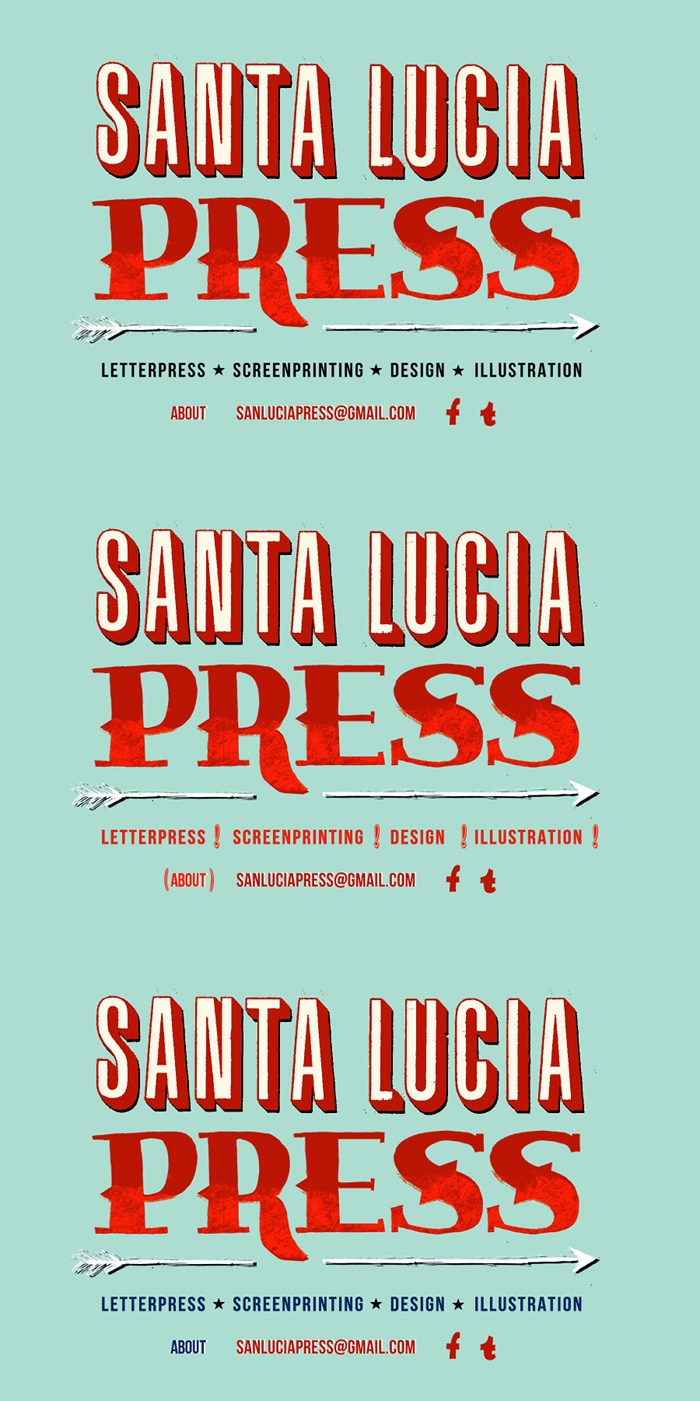
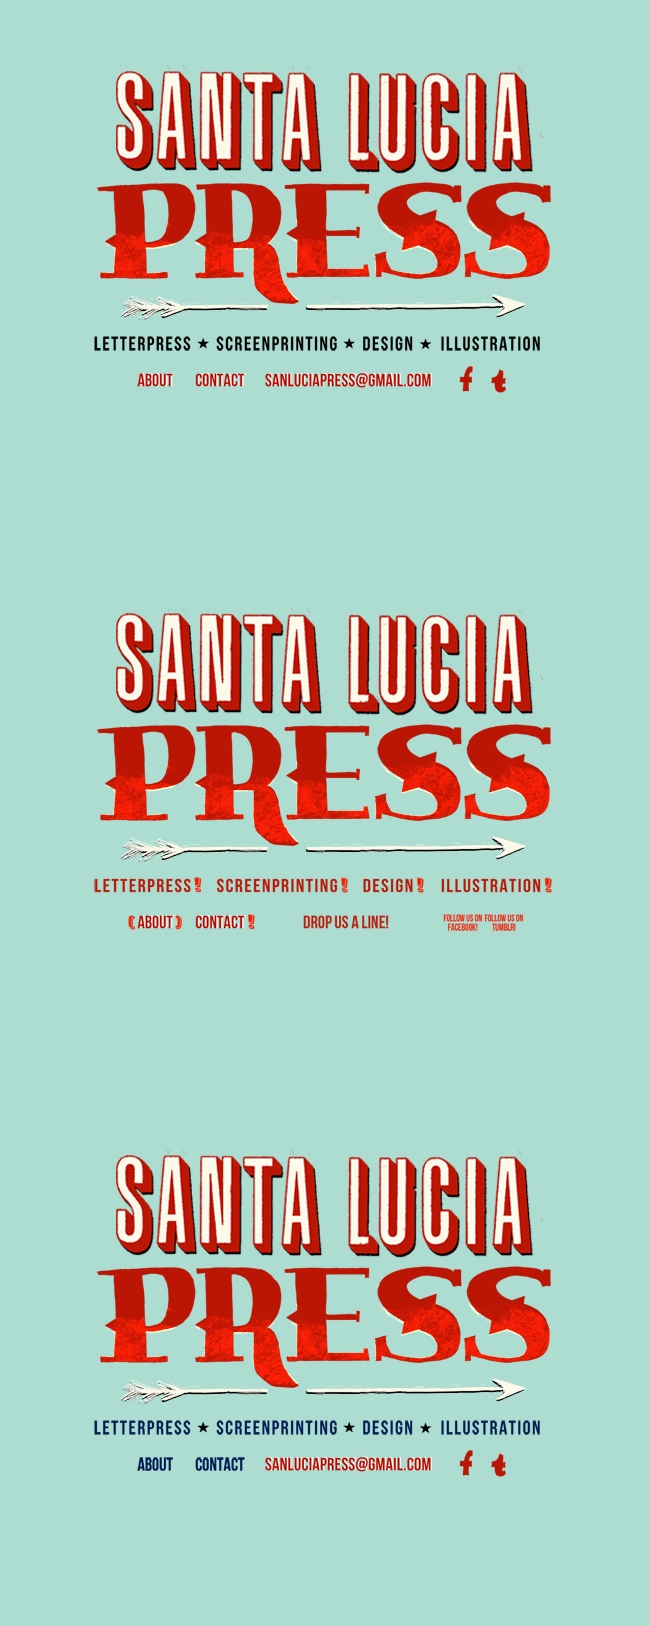
add in new images from Karen

diff --git a/css/main.css b/css/main.css
@@ -55,8 +55,8 @@ a {
  */
 
 ul#main-pages {
-    width   : 700px;
-    height  : 467px;
+    width   : 650px;
+    height  : 410px;
     list-style: none;
     background: url(../images/mainpagemain_all.jpg) no-repeat 0 0;
     position: relative;
@@ -85,66 +85,73 @@ ul#main-pages li a span {
 
 
 li#site-id {
-    left   : 60px;
-    top    : 39px;
-    width  : 540px;
-    height : 318px;
+    left   : 82px;
+    top    : 57px;
+    width  : 491px;
+    height : 273px;
 }
 
 li#letterpress {
-    left   : 94px;
-    top    : 358px;
-    width  : 135px;
-    height : 25px;    
+    left   : 89px;
+    top    : 332px;
+    width  : 124px;
+    height : 22px;    
 }
 
 li#screenprinting {
-    left   : 231px;
-    top    : 353px;
-    width  : 153px;
-    height : 30px;
+    left   : 214px;
+    top    : 333px;
+    width  : 150px;
+    height : 24px;
 }
 
 li#design {
-    left   : 387px;
-    top    : 355px;
-    width  : 80px;
-    height : 30px;
-}
-
-li#illustration {
-    left   : 469px;
-    top    : 355px;
-    width  : 137px;
-    height : 29px;
-}
-
-li#about {
-    left   : 147px;
-    top    : 399px;
+    left   : 358px;
+    top    : 329px;
     width  : 81px;
     height : 28px;
 }
 
+li#illustration {
+    left   : 431px;
+    top    : 324px;
+    width  : 138px;
+    height : 32px;
+}
+
+li#about {
+    left   : 122px;
+    top    : 368px;
+    width  : 68px;
+    height : 24px;
+}
+
+li#contact {
+    left   : 192px;
+    top    : 370px;
+    width  : 72px;
+    height : 23px;
+}
+
 li#email-address {
-    left   : 230px;
-    top    : 400px;
-    width  : 192px;
-    height : 25px;
+    left   : 256px;
+    top    : 371px;
+    width  : 185px;
+    height : 22px;
 }
 
 li#facebook {
-    left   : 428px;
-    top    : 387px;
-    width  : 45px;
-    height : 51px;
+    left   : 441px;
+    top    : 361px;
+    width  : 43px;
+    height : 46px;
 }
 
 li#tumblr {
-    left   : 474px;
-    top    : 394px;
-    width  : 35px;
-    height : 37px;
+    left   : 484px;
+    top    : 363px;
+    width  : 42px;
+    height : 39px;
 }
 
 /*

diff --git a/js/ImageSlideshow.js b/js/ImageSlideshow.js
@@ -37,19 +37,19 @@
             
             var isEmpty = thumbnailsDiv.children().length == 0;
             var groupName = window.location.hash ? window.location.hash.substring(1) : null;
+            var imageGroup = groupName ? SantaLuciaPress.ImageSlideshow.images[(groupName)] : null;
             
             if (!isEmpty) {
                 // fade out
                 thumbnailsDiv.fadeOut().empty();
             }
             
-            if (groupName) {
+            if (imageGroup) {
                 
                 // fade something in
                 thumbnailsDiv.empty().hide();
                 
-                var images = SantaLuciaPress.ImageSlideshow.images;
-                var numImages = images[(groupName)].length;
+                var numImages = imageGroup.length;
 
                 // draw rows of 4
                 for (var i = 0; i < numImages; i += 4) {
@@ -57,7 +57,7 @@
                     var imageRow = $('<div></div').addClass('thumbnail-row');
                     
                     for (var j = i; j < Math.min(numImages, i + 4); j++) {
-                        var image = images[(groupName)][j];
+                        var image = imageGroup[j];
 
                         var thumbnailId = 'thumbnail-' + j;
 

diff --git a/js/SantaLuciaPress.js b/js/SantaLuciaPress.js
@@ -4,7 +4,7 @@
 var SantaLuciaPress = {
     
     /* constants */
-    imageMapHeight : parseInt($('ul#main-pages').css('height')),
+    imageMapHeight : 542, //parseInt($('ul#main-pages').css('height')),
     imageUrl       : $('ul#main-pages').css('background').match(/url\([^)]+\)/)
     
 };

diff --git a/index.html b/index.html
@@ -33,6 +33,9 @@
 					<li id="about">
 						<a href="#about"><span>About</span></a>
 					</li>
+					<li id="contact">
+						<a href="#contact"><span>Contact</span></a>
+					</li>
 					<li id="email-address">
 						<a href="mailto:foo@foobar.com"><span>Email me</span></a>
 					</li>
